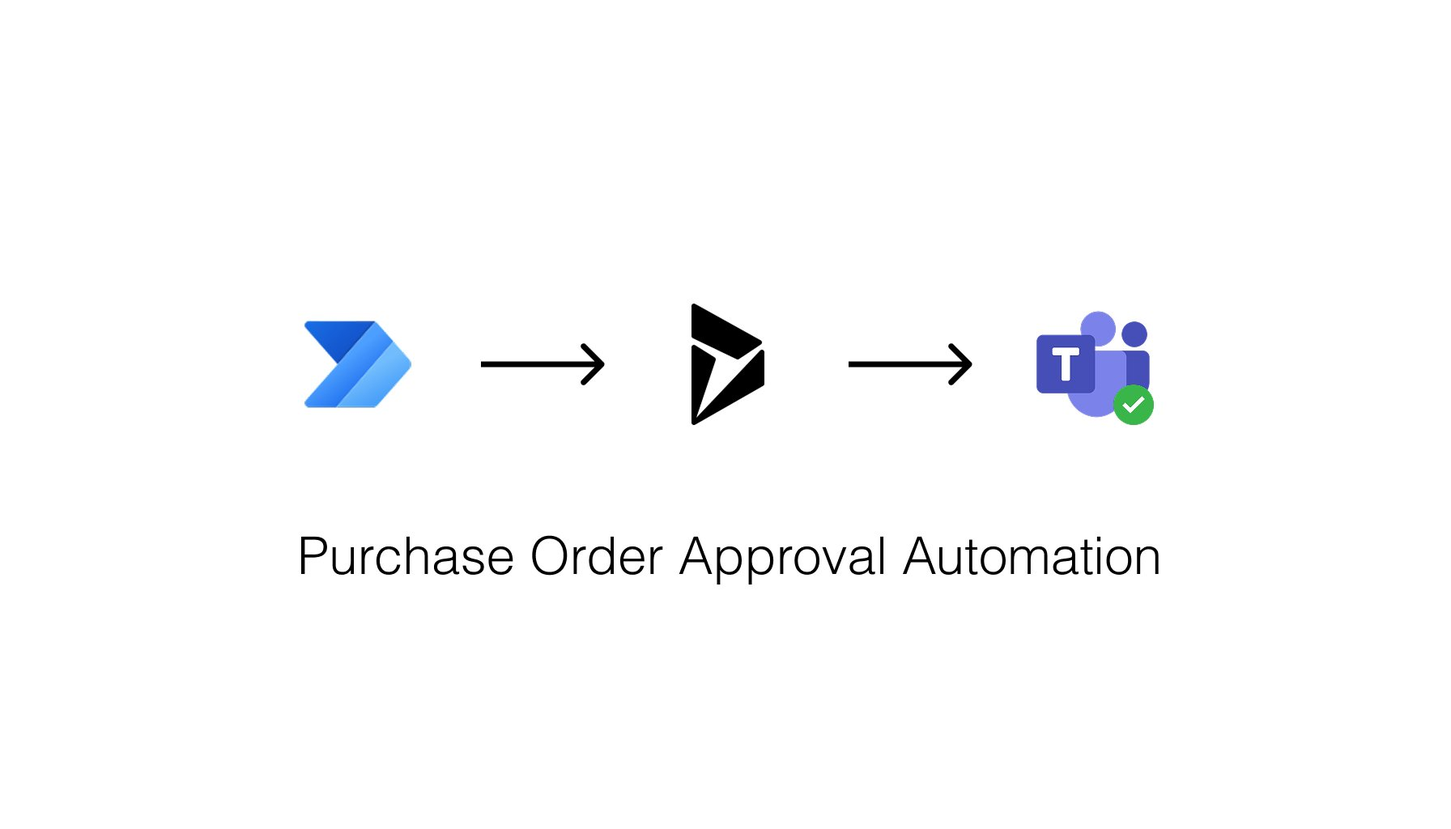
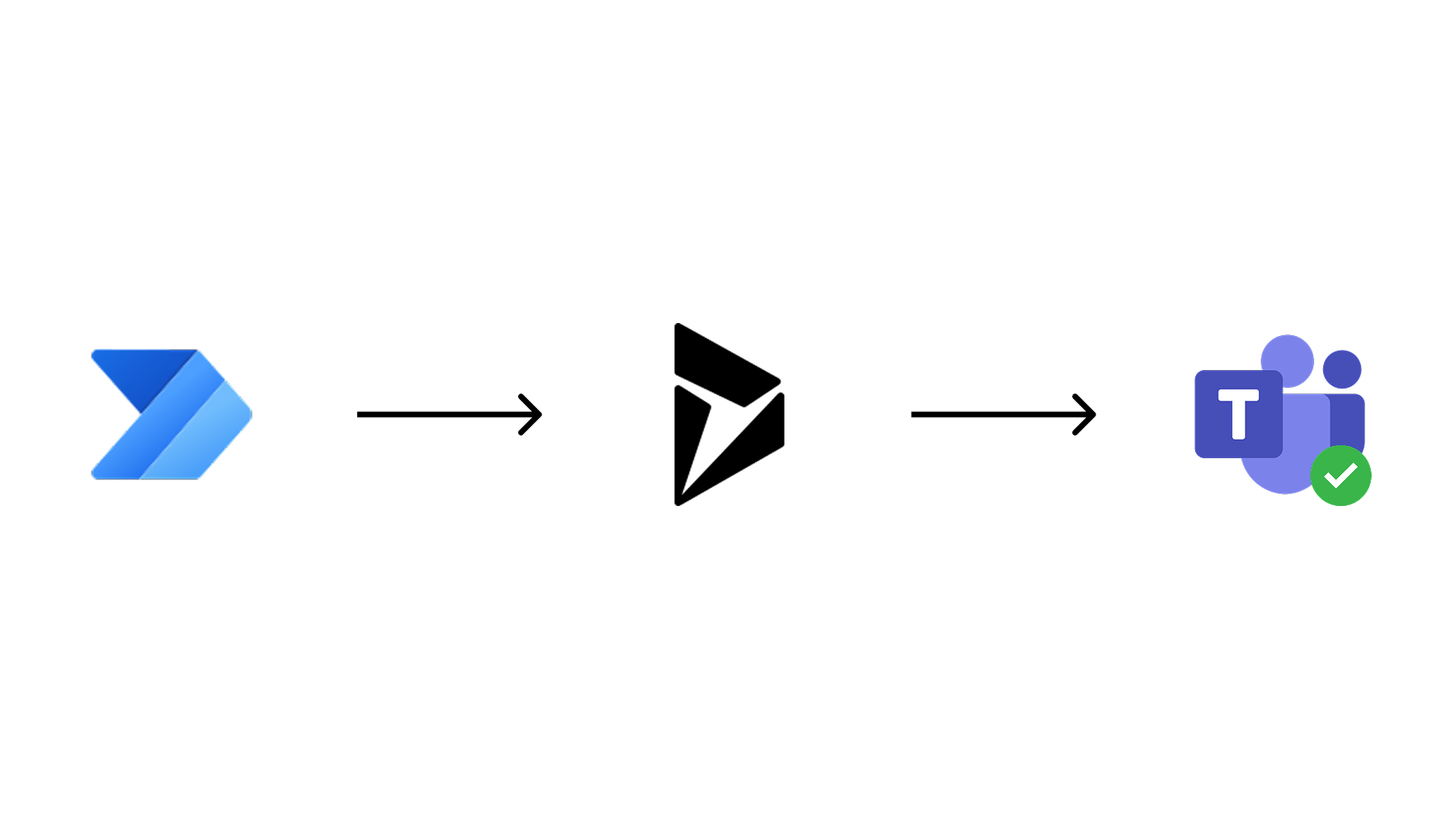
fix: reconcile remaining copy and image drift from yesterday's laptop
Previous reconciliation commit missed several things caught during
review:
- EMERALD's entire case study was independently rewritten yesterday
  (new methodology section, problem framing, solution steps, and a
  much stronger outcome narrative) — replaced wholesale
- NutriChat's project thumbnail had changed
- House System's copy (problem framing, solution steps, outcome,
  reflection) is now yesterday's version; kept this session's
  before/after image-group layout as-is per instruction
- Purchase Order's image had the same filename in both histories but
  different bytes (a version with baked-in redundant title text vs.
  a cleaner icons-only version) — a diff of the data file alone
  couldn't catch this, needed a binary check

diff --git a/src/data/projects.js b/src/data/projects.js
@@ -3,68 +3,76 @@ export const projectsData = [
     id: 'emerald',
     title: 'EMERALD',
     image: '/Gemini_Generated_Image_l7x53bl7x53bl7x5.jpg',
-    summary: 'A privacy-first, on-premise behavioral AI health coaching system designed for adult patients with chronic conditions.',
-    tags: ['RAG Pipeline', 'LLM', 'Python', 'Healthcare'],
+    summary: 'A privacy-first, on-premise AI health coach for chronic disease patients, built to prove that AI coaching can be both empathetic and reliably bounded.',
+    tags: ['RAG Pipeline', 'LLM', 'Safety Layer', 'On-Premise', 'Python', 'Healthcare'],
     category: 'Engineering',
     year: '2026/2027',
     caseStudy: {
       introduction: {
         status: "🚧 In Active Development",
-        summary: "A privacy-first, on-premise behavioral AI health coaching system designed for adult patients with chronic conditions.",
-        metadata: { role: "Lead Developer / Product Designer", context: "Clinical Healthcare / Chronic Disease Management (OA, T2D, CVD)", timeline: "Ongoing: Targeting TRL 5", team: "Individual Contributor" },
-        credibilityTag: "Architecture built and running end-to-end, designed to prioritize patient privacy through local hosting and anonymization, targeting TRL 5 clinical validation."
+        summary: "A privacy-first, on-premise AI health coach for chronic disease patients, built to prove that AI coaching can be both empathetic and reliably bounded.",
+        metadata: { role: "Product Owner / Lead Developer", context: "Clinical Healthcare, Chronic Disease Management (OA, T2D, CVD)", timeline: "1 year, currently in development", team: "Solo execution, guided by 2 academic supervisors, within a wider (non-active) research consortium" },
+        credibilityTag: "Designing a product that has to say no as often as it says yes, and making that feel like care, not a wall."
       },
       context: {
-        description: "Private, self-hosted environments designed to keep sensitive user data strictly local and anonymized. Chronic conditions require continuous behavioral coaching and lifestyle direction, but standard cloud-based AI systems present privacy concerns and lack deterministic longitudinal memory.",
+        description: "Patients managing chronic conditions need continuous behavioral coaching between doctor visits, but clinicians don't have the bandwidth, and a generic AI chatbot is both a privacy risk and a liability risk the moment it starts sounding like it's giving medical advice. The product had to run entirely on institutional infrastructure, no third-party APIs, no patient data leaving the organisation, and stay strictly within lifestyle coaching under MDR: never diagnosing, never prescribing.",
         constraints: [
-          "Privacy First: Zero external API calls or outbound telemetry to ensure data remains completely local and anonymized.",
-          "Safety Guardrails: Focused exclusively on lifestyle coaching, with strict boundaries to avoid any diagnosing or prescribing, prioritizing user safety.",
-          "Performance & Hardware: Required 100% local, full-precision inference."
+          "No third-party AI services, all inference runs on institutional hardware, patient data never leaves it",
+          "Strict scope boundary, lifestyle coaching only, hard line against anything resembling diagnosis or treatment",
+          "One-year build, solo execution, with light-touch academic supervision rather than a full product team"
         ]
+      },
+      methodology: {
+        title: "Managing Scope on a 1-Year Solo Build",
+        description: "With one year, no dedicated product team, and supervision that's more advisory than hands-on, most of the real work has been deciding what not to build yet. Early on I cut anything that wasn't essential to proving the core safety-first thesis, no multi-condition personalization in v1, no clinician dashboard yet, no integrations. The consortium around this project is large but not actively steering day-to-day decisions, which means most product calls, what ships in v1, what gets deferred, where the line on \"safe enough\" actually sits, have been mine to make and defend to the two supervisors directly involved."
       },
       problem: {
-        howMightWe: "How might we build a highly capable, locally-hosted AI health coach that maintains longitudinal patient memory and strict safety guardrails without ever transmitting data externally?",
+        howMightWe: "How do we build an AI health coach that's warm and genuinely helpful, while being structurally incapable of crossing into medical advice, without the safety layer making the product feel like talking to a liability disclaimer?",
         observations: [
-          "Existing AI tools rely heavily on cloud APIs (introducing privacy risks) and generic prompts (creating hallucination risks and a lack of clinical adherence).",
-          "Adult patients managing chronic conditions (like Type 2 Diabetes or Osteoarthritis) and the healthcare systems exploring tools for their continuous care are affected.",
-          "Cloud-based LLMs pose risks of exposing sensitive data and suffer from 'goldfish memory' over long-term treatment. They also lack strict semantic routing to prevent off-label, dangerous medical advice."
-        ]
+          "What I observed: patients need consistent support, but AI health coaches tend to fail in one of two directions, over-restrict and they feel cold and useless, under-restrict and they risk giving dangerous advice. The interesting product problem sits in between: making strict feel like caring.",
+          "Who's affected: chronic disease patients who need support between visits, and the healthcare systems that would carry the liability if the AI got something wrong.",
+          "Why existing tools fail: they're built as general-purpose chatbots first, safety-patched second, which means the safety layer is always fighting the product experience instead of being part of it."
+        ],
+        impact: ""
       },
       users: {
-        goals: ["Patients need personalized behavioral coaching and empathy", "Providers need to ensure safe and thoroughly documented interactions."],
-        painPoints: ["Forgetting previous conversations", "Receiving generic or potentially unsafe advice from standard AI", "Concerns about sensitive health data being exposed to third parties."]
+        goals: [
+          "Patients want personalized coaching that feels human, without being made to feel judged or unsafe.",
+          "Providers need confidence that the tool can't wander into clinical territory it has no business in."
+        ],
+        painPoints: [
+          "Both groups need to trust the system before they'll actually use it."
+        ]
       },
       insights: [
-        { reframe: "Safe AI isn't just about text generation, it's about semantic routing, deterministic memory, and strict adherence to behavioral change techniques (BCTs).", explanation: "To build a truly safe system, we couldn't just rely on a raw LLM. We had to engineer a multi-intent 'Traffic Cop' router to immediately quarantine unsafe or emergency requests, and a Pydantic-based 'GoldenProfile' to track patient state deterministically over time." }
+        { reframe: "Safety and warmth aren't in tension if you separate what the AI is allowed to say from how it says it.", explanation: "Rather than trying to make one model be careful and empathetic at the same time, I split the system: a fast layer decides what's safe to respond to at all, and only then does the conversational layer get to be warm. The product decision, where exactly to draw that line, and how invisible to make it to the user, mattered more than any model choice underneath it." }
       ],
       solution: {
         steps: [
-          { title: "Semantic Routing", description: "A local Llama 3.2 3B 'TrafficCop' instantly categorizes user intent (Safe, Emergency, Out-of-Bounds) with sub-2s latency." },
-          { title: "Memory & Retrieval", description: "The system uses ChromaDB and BAAI/bge-base for strict knowledge retrieval (k=5), alongside an asynchronous profile extractor to maintain a longitudinal 'GoldenProfile' of the anonymized patient." },
-          { title: "Safe Generation", description: "A local Llama 3.1 8B Instruct model generates coaching responses based solely on the retrieved context and the patient's state." },
-          { title: "Why it addressed the problem", description: "By running entirely locally and utilizing anonymized profiles, it mitigated the privacy risks of cloud APIs while programmatically enforcing safety guardrails and maintaining long-term conversational context." },
-          { title: "Key design decisions", description: "Utilized Ollama with Llama 3.1 8B Instruct for zero-quantization, local inference. Implemented FastAPI for robust backend orchestration and ChromaDB for persistent vector storage. Engineered a Next.js (App Router) frontend for a chat UI featuring true token-streaming simulation." }
+          { title: "Safety & Scope Screening", description: "Every message is screened for safety and scope before it ever reaches the conversational AI." },
+          { title: "Patient Memory Layer", description: "A separate memory layer keeps track of each patient's context over time, all running on institutional infrastructure." },
+          { title: "Hard-Coded Safety Boundaries", description: "The highest-stakes boundaries, crisis detection, medication advice, aren't enforced by instructing the model. They're enforced in code the model can't override, because testing showed instruction-based rules weren't reliable enough to trust." }
         ]
       },
       visuals: [
-        { image: "/EmerladFlowOverview.jpg", caption: "The runtime request lifecycle: message safety triage (emergency & scope checks), profile and knowledge retrieval, prompt assembly, and memory updates on every turn." }
+        { image: "/EmerladFlowOverview.jpg", caption: "Runtime request lifecycle diagram: message safety triage → retrieval → response → memory update." }
       ],
       deeperArchitecture: {
-        label: "Deeper Architecture",
+        label: "Technical sight: routing architecture, memory system, and model stack",
         image: "/EmeraldDeepArchitecture.jpg",
-        caption: "Full system architecture: the synthetic data generation pipeline (Data Factory), the five-phase training pipeline, and the live runtime engine underpinning EMERALD."
+        caption: "Full system architecture: data pipeline, training phases, and runtime engine, for technical reviewers who want the deeper detail."
       },
       outcome: {
         metrics: [
           { label: "Status", value: "In Validation" }
         ],
-        description: "Core architecture is built and running end-to-end: TrafficCop routing, RAG retrieval, and GoldenProfile memory are implemented. Currently in the safety validation phase, testing against emergency detection, out-of-scope refusal, and hallucination resistance, targeting TRL 5 clinical validation."
+        description: "Core architecture is built and running end-to-end, and is currently in safety validation with real clinicians testing it unscripted. One decision from that process is representative: early on, medication questions were answered by the conversational model, so refusals would sound natural rather than canned. In testing it produced correct-sounding but genuinely unsafe output, reasoning about medication risks, and in one case actual dosing guidance. Getting the right answer by luck isn't a safe boundary, so I reverted it: medication questions now return a fixed response the model never touches. Less elegant, unambiguously safer, and the trade-off I'd defend to any clinician in the room."
       },
       reflection: {
         lessons: [
-          "Engineering a deterministic 'Semantic Traffic Cop' and managing asynchronous state extraction are technically demanding but absolutely necessary to tame non-deterministic LLMs in high-stakes environments.",
-          "I would love to expand the synthetic bootstrapping pipeline to cover more esoteric edge cases and further optimize VRAM allocation for concurrent sessions.",
-          "I chose to mandate local, full-precision inference over cloud APIs. This required significant upfront hardware investment and optimization, but it was a deliberate trade-off to ensure maximum data privacy and system control."
+          "What I learned: on safety-critical boundaries, instructing a model to behave has a ceiling. When it genuinely matters, you don't write a better instruction, you remove the model's ability to get it wrong. Nearly every serious issue we found came from something being left to the model's judgment that should have been enforced in code.",
+          "What I'd improve: expand edge-case coverage in safety testing, the most valuable failures were found by humans talking to it naturally, not by test scripts, and build lighter-weight tooling so supervisors can review decisions without going deep into the technical layer.",
+          "Trade-offs: chose on-premise inference over cloud APIs, accepting a real hardware and performance cost, because for this product the privacy guarantee wasn't negotiable."
         ]
       }
     }
@@ -72,7 +80,7 @@ export const projectsData = [
   {
     id: 'nutrichat',
     title: 'NutriChat',
-    image: '/Gemini_Generated_Image_704lrx704lrx704l.jpg',
+    image: '/Nutrichatthumbnail.jpg',
     summary: 'Redesigned a rigid nutrition questionnaire into a conversational experience to reduce cognitive load, improve engagement, and support honest self-reporting.',
     tags: ['UX/UI', 'AI', 'Healthcare', 'Research'],
     category: 'Product Design',
@@ -199,7 +207,7 @@ export const projectsData = [
     year: '2023',
     caseStudy: {
       introduction: {
-        summary: "Redesigned a slow, failure-prone purchase order approval process by embedding one-click approvals into Microsoft Teams, reducing delays and missed approvals across the company.",
+        summary: "Redesigned a slow, failure-prone purchase order approval process by embedding one-click approvals into Microsoft Teams, cutting approval time from up to a week down to minutes.",
         metadata: { role: "Business Analyst (IT)", context: "Full-time work project", timeline: "1 month", team: "Solo execution, cross-functional stakeholders" },
         credibilityTag: "Company-wide process, real users, production rollout."
       },
@@ -253,23 +261,23 @@ export const projectsData = [
     id: 'titsystem',
     title: 'Student House Ledger System',
     image: '/HouseLedgerSystemthumbnail.jpg',
-    summary: 'A full-stack web application that automates household expense splitting and daily dinner rosters using dynamic, conditional logic.',
-    tags: ['Next.js', 'Supabase', 'Full-stack', 'UX'],
+    summary: 'A full stack web application that automates household expense splitting and daily dinner rosters, rebuilt from a bloated, confusing predecessor into something new roommates could use without explanation.',
+    tags: ['Next.js', 'Supabase', 'Full stack', 'UX'],
     category: 'Engineering',
     year: '2025',
     caseStudy: {
       introduction: {
-        summary: "TIT House System — a production-grade app that automates shared expense splitting and dinner tracking for a co-living household, rebuilt from a bloated, confusing predecessor into something new roommates could use without explanation.",
-        metadata: { role: "Lead Developer / Product Designer", context: "Co-living household management", timeline: "Ongoing (Live)", team: "Individual Contributor" },
-        credibilityTag: "Real users, production rollout, resolving daily expense friction in a live household."
+        summary: "A full stack web application that automates household expense splitting and daily dinner rosters, rebuilt from a bloated, confusing predecessor into something new roommates could use without explanation.",
+        metadata: { role: "Product Designer and Engineer", context: "Co living Household Management", timeline: "Ongoing (Live)", team: "Individual Contributor" },
+        credibilityTag: "Real users, production rollout, resolving daily expense friction and trust friction in a live household."
       },
       context: {
-        description: "The house already had an app before this one — but every time someone new joined, they needed a walkthrough. Most of its features went unused; only a couple actually mattered day-to-day.",
+        description: "The house already had an app before this one, but every time someone new joined, they needed a walkthrough. Most of its features went unused; only a couple actually mattered day to day. On top of that, nobody understood how the splitting logic worked behind the scenes, so amounts constantly got questioned. Shared expenses are constant in co living environments, but tracking them fairly means nothing if people do not trust or understand the number they are being asked to pay.",
         constraints: [
-          "Feature Discipline: Had to simplify aggressively while keeping every feature that was actually used.",
-          "Autonomous Use: Had to work without supervision or repeated explanation.",
-          "Real Edge Cases: Had to correctly handle vacations, guests, and new roommates joining mid-lease.",
-          "Built to Scale: Needed to be built with an eye toward scaling to other houses on campus, not just this one."
+          "Frictionless UX: roommates would not use it if it took longer than sending a WhatsApp message, and had to be simple enough that new roommates could use it without explanation.",
+          "Complex edge cases: the system had to mathematically handle vacations, guests, permanent opt outs, and new roommates moving in mid lease, transparently.",
+          "Performance: required instant, real time feedback so users feel confident their inputs were registered.",
+          "Scalability: designed with an eye toward extending the same system to other houses on campus, if validated over time."
         ]
       },
       methodology: {
@@ -277,13 +285,13 @@ export const projectsData = [
         description: "A later review pass surfaced three real issues, each fixed before they mattered: a missing authorization check that would have let any user record a fake settlement on someone else's behalf, hardcoded demo credentials sitting in a production code path, and a CSV export vulnerable to formula injection. Finding and closing these wasn't part of the original build, it came from going back and actually trying to break the thing after it was already working."
       },
       problem: {
-        howMightWe: "How might we simplify a cluttered household tool down to only what people actually use, so a new roommate can understand it without being taught — while keeping the underlying logic robust enough to handle real edge cases and, eventually, scale to other houses?",
+        howMightWe: "How might we simplify a cluttered household tool down to only what people actually use, and make the splitting logic visible enough that people trust their bill, while automatically tracking expenses based on dynamic daily participation rather than static division?",
         observations: [
-          "New roommates had to be walked through the existing app every single time, for a small set of features they'd actually use — the rest of the interface was dead weight nobody touched.",
-          "Every new person joining the house is affected, along with whoever kept having to explain the app to them.",
-          "The old app was built to have every possible feature, not to have only the ones people needed — so onboarding never got easier no matter how many times someone explained it."
+          "What I observed: new roommates had to be walked through the existing app every single time, for a small set of features they would actually use. Beyond onboarding, there was a constant undercurrent of complaints about why someone owed a specific amount, because the reasoning behind a split was invisible.",
+          "Who is affected: everyone living in the shared house, particularly whoever ended up fielding complaints about the numbers, and every new person joining who needed the app re explained to them.",
+          "Why the current solution failed: it had every possible feature rather than only the ones people needed, and it never showed its work, so disputes came up regardless of whether the math was actually correct."
         ],
-        impact: "It prevents roommate arguments over money, eliminates the need for complex, easily broken spreadsheets, and builds a transparent, fair system."
+        impact: ""
       },
       beforeAfter: {
         before: {
@@ -307,35 +315,33 @@ export const projectsData = [
         }
       },
       users: {
-        goals: ["Understand the app without being taught", "Know who's cooking/eating tonight", "Log a receipt in seconds", "See fair debt balances instantly"],
-        painPoints: ["Repeated onboarding overhead", "Feature clutter", "Unfair splits during vacations, guests, or new move-ins"]
+        goals: ["Understand the app without being taught", "See why they owe what they owe", "Know exactly who is cooking or eating tonight", "Quickly log a grocery receipt"],
+        painPoints: ["Repeated onboarding overhead for every new roommate", "Not being able to see how a split was calculated", "Doing math for complex edge cases (a guest, a roommate on vacation, and a new roommate all overlapping)"]
       },
       insights: [
-        { reframe: "The core problem wasn't the math — it was comprehension.", explanation: "A tool that requires a human to explain it every time isn't actually usable, no matter how powerful its logic is underneath. Simplifying down to only the features people actually used mattered more than adding capability." },
-        { reframe: "Expense splitting itself isn't just division — it's conditional logic based on presence, category, and time.", explanation: "Which is why the underlying system still needed real rigor (Dinner Logic, Pantry Logic, the Newcomer Rule) even after the interface was stripped down." }
+        { reframe: "The core problem was not the math, it was comprehension and trust.", explanation: "A tool that requires a human to explain it every time is not actually usable, and a split people cannot inspect will always feel unfair even when it is correct. Simplifying down to only the features people used, and surfacing the reasoning behind each split, mattered more than adding capability." },
+        { reframe: "Expense splitting itself is not just division, it is conditional logic based on physical presence and category.", explanation: "Rules had to be separated into Dinner Logic and Pantry Logic, while globally tracking who was currently out of town." }
       ],
       solution: {
+        summary: "Stripped the interface down to only the features people actually used, and made splits inspectable rather than a black box: the ledger shows exactly who was included in each expense, with a Manual Edit badge whenever someone overrode the default split, so a disputed amount can be checked in a couple of taps instead of a conversation.",
         steps: [
-          { title: "Stripping the Interface", description: "Removed everything that required explanation, keeping only the features that were actually used day-to-day." },
-          { title: "Dinner Logic", description: "Split among whoever signed up that day, auto-excluding anyone marked 'Away' unless they explicitly opt back in." },
-          { title: "Pantry Logic", description: "Common expenses split evenly across active members, with automatic vacation exemption and a permanent opt-out toggle." },
-          { title: "The Newcomer Rule", description: "Expenses are checked against each member's join date, so new roommates never inherit historical debt." },
+          { title: "The Roster", description: "Users set a Standard Week default schedule or manually toggle their daily RSVPs." },
+          { title: "The Purchase", description: "A housemate buys groceries and logs the receipt as either a Dinner or Common expense." },
+          { title: "The Engine", description: "The system checks Vacation Mode statuses, applies the Newcomer Rule (historical exclusion), and calculates the fractional debt for every participant, with the reasoning visible in the ledger." },
+          { title: "Instant Feel", description: "RSVP toggles update immediately through optimistic UI, updating the local view before the server confirms, with rollback if it fails. Separately, a realtime Supabase subscription (Smart Sync) refetches data in the background whenever anyone else's changes come in, so every roommate's screen stays current without a manual refresh." },
           { title: "Onboarding", description: "A QR code invite link (found under House Invite in Profile settings) lets a new roommate join in seconds, no explanation required." },
-          { title: "Key design decisions", description: "Built on Next.js (App Router) and Supabase (PostgreSQL, auth, Row Level Security), with a custom 'Smart Sync' layer for optimistic, real-time UI updates. Designed with scalability in mind — if validated over time in this house, the same system could extend to other houses on campus." }
+          { title: "Key Design Decisions", description: "Next.js (App Router) for routing, Supabase (PostgreSQL) for database relationships, authentication, and Row Level Security, Tailwind for a responsive layout that adapts down to a mobile bottom nav." }
         ]
       },
       visuals: [],
       outcome: {
-        metrics: [
-          { label: "Shared Expenses Managed", value: "100%" }
-        ],
-        description: "In daily use managing 100% of shared expenses, with the onboarding friction that plagued the old app eliminated — new roommates no longer need a walkthrough. The Newcomer Rule and vacation logic removed the two most common sources of dispute."
+        description: "The app replaced spreadsheets and WhatsApp coordination as the household's only system for managing shared expenses. Onboarding a new roommate now takes a scanned QR code instead of a walkthrough, and a disputed amount can be checked against the ledger directly instead of becoming a conversation."
       },
       reflection: {
         lessons: [
-          "The hardest part of this rebuild wasn't the splitting logic, it was deciding what to remove — comprehension problems are often solved by subtraction, not addition. Going back to actively try to break my own app after it was 'done' surfaced real security gaps I wouldn't have found otherwise.",
-          "What I'd improve next: receipt scanning for full financial transparency, and offline support so the app keeps working with no connection.",
-          "Trade-offs: chose a responsive PWA over native for faster development and cross-platform reach, at the cost of native push notifications and, for now, offline support."
+          "What I learned: the hardest part of the rebuild was not the splitting logic, it was deciding what to remove, and making the remaining logic visible enough that people could trust it without needing it explained. Going back to actively try to break my own app after it was \"done\" surfaced real security gaps I would not have found otherwise.",
+          "What I would improve: integrate OCR receipt scanning to reduce the friction of logging large grocery hauls, and add offline support so the app keeps working with no connection.",
+          "Trade offs: built as a responsive web app rather than a native mobile app, which meant faster development and cross platform reach for all roommates, at the cost of native push notifications and (for now) offline support."
         ]
       }
     }

diff --git a/src/components/CaseStudyLayout.jsx b/src/components/CaseStudyLayout.jsx
@@ -368,6 +368,9 @@ export default function CaseStudyLayout({ data }) {
       {solution && solution.steps && (
         <section id="section-solution" style={{ display: 'flex', flexDirection: 'column', gap: '32px' }}>
           <h3 className="text-title" style={{ margin: 0 }}>Implementation</h3>
+          {solution.summary && (
+            <p className="text-body" style={{ margin: 0 }}>{solution.summary}</p>
+          )}
           <div style={{ display: 'flex', flexDirection: 'column' }}>
             {solution.steps.map((step, i) => (
               <div key={i} style={{ display: 'flex', gap: '24px', alignItems: 'stretch' }}>
